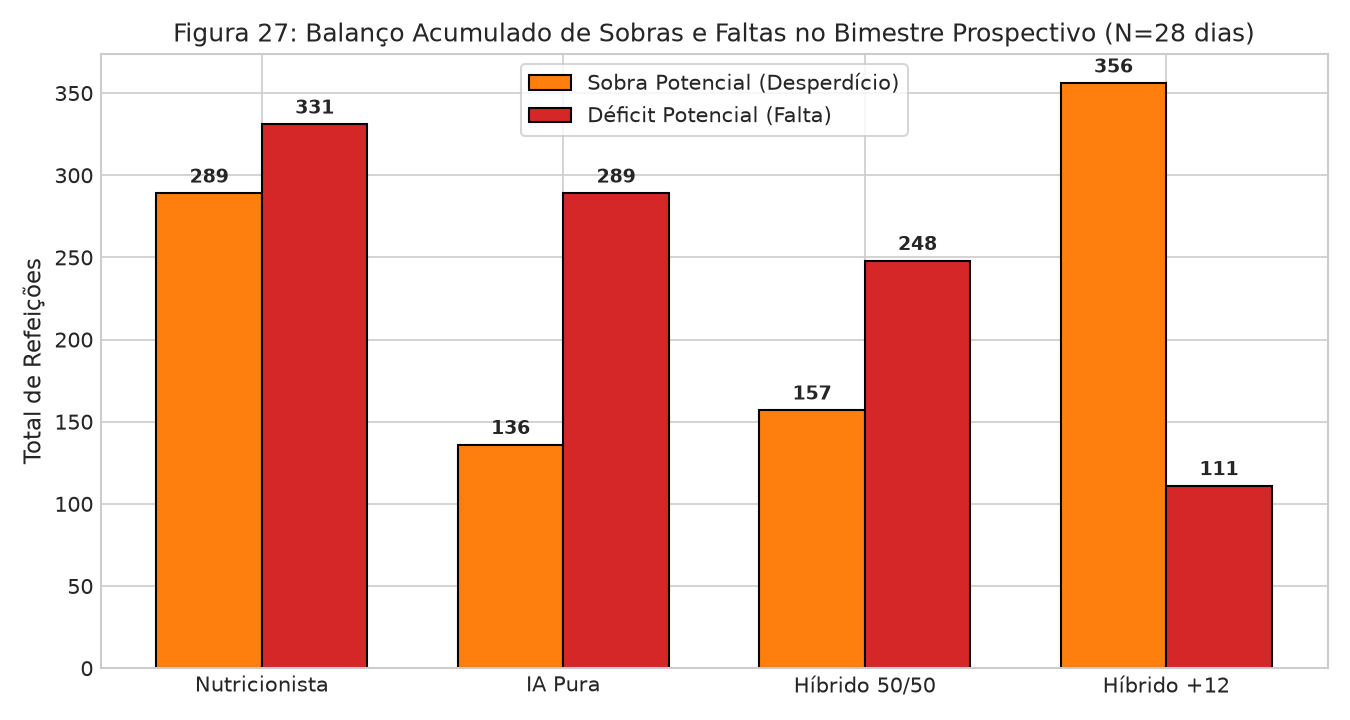
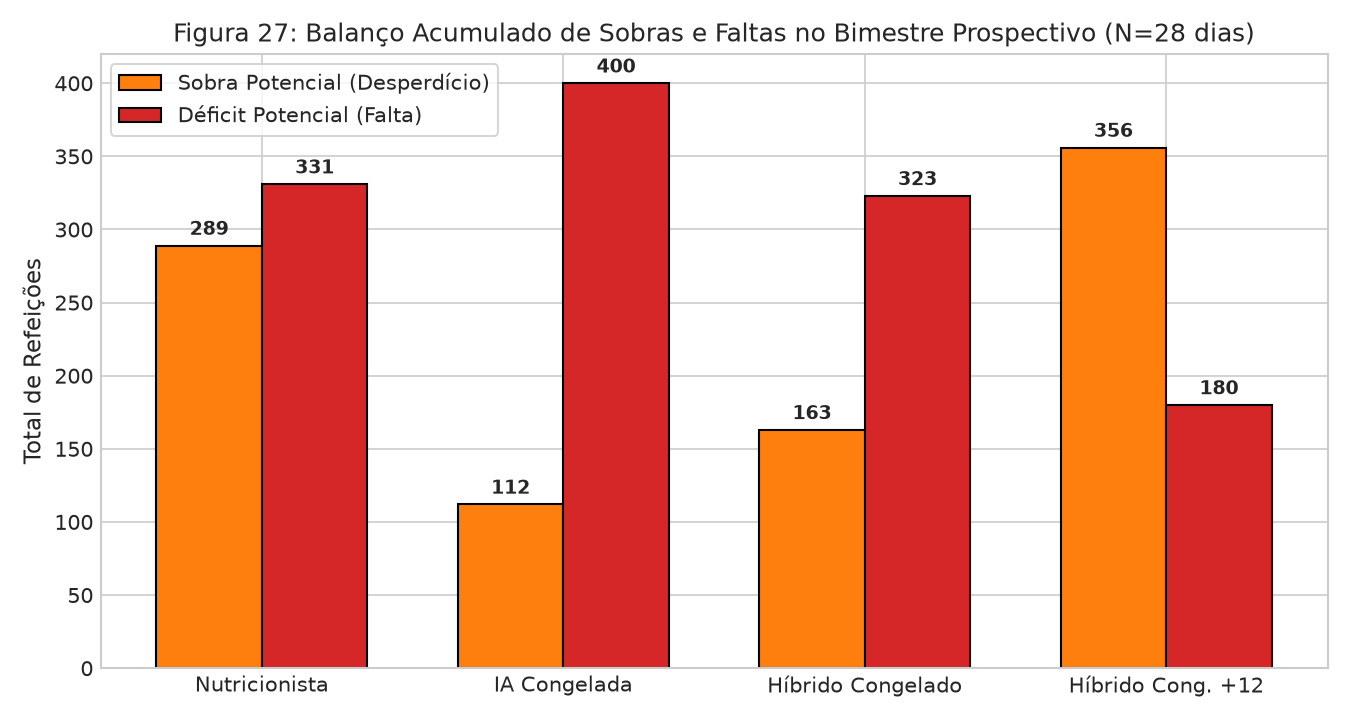
feat(evaluation): congelamento formal do modelo campeao para teste cego out-of-time set-out

diff --git a/src/core/safety_margins.py b/src/core/safety_margins.py
@@ -271,18 +271,66 @@ def processar_prospectivo(df_completo: pd.DataFrame) -> Tuple[pd.DataFrame, pd.D
     m_nutri = calcular_metricas_completas(sub_nutri["consumo_real"].values, sub_nutri["plano_nutricionista"].values)
     linhas_prosp.append({
         "Configuracao": "Nutricionista Institucional",
-        "Tipo": "Humano",
+        "Tipo": "Especialista Humano",
+        "Regime": "Referência Operacional",
         "Recorte": "Bimestre Completo (N=28)",
         **m_nutri
     })
+
+    # --- 1.1. Avaliação Rigorosa: Modelo Campeão CONGELADO em 31/08/2026 (Sem retreinamento) ---
+    gold_t1 = pd.read_parquet(GOLD / "gold_t1.parquet")
+    from .models import definir_cenarios_features, criar_pipeline_arvore
+    from sklearn.ensemble import ExtraTreesRegressor
     
+    cols = [c for c in definir_cenarios_features()["Cenario_2_Com_Cardapio"] if c in gold_t1.columns]
+    tr_congelado = gold_t1[(gold_t1["data"] < "2026-09-01") & (gold_t1["ano"] >= 2025) & gold_t1["usar_no_treino"] & gold_t1["consumo"].notna()].copy()
+    X_tr = tr_congelado[cols]
+    y_tr = tr_congelado["alvo_relativo"].clip(0.2, 2.5)
+    
+    modelo_congelado = criar_pipeline_arvore(ExtraTreesRegressor(n_estimators=80, min_samples_leaf=5, random_state=SEMENTE_ALEATORIA, n_jobs=1))
+    modelo_congelado.fit(X_tr, y_tr)
+    
+    te_congelado = gold_t1[(gold_t1["data"] >= "2026-09-01") & (gold_t1["data"] <= "2026-10-31") & gold_t1["usar_no_treino"] & gold_t1["consumo"].notna()].copy()
+    X_te = te_congelado[cols]
+    base_te = te_congelado["nivel_base"].values
+    y_te = te_congelado["consumo"].values
+    nutri_te = te_congelado["plano_nutricionista"].values
+    
+    pred_ia_congelada = np.floor(np.clip(modelo_congelado.predict(X_te), 0.2, 2.5) * base_te + 0.5)
+    pred_hib_congelado = np.floor(0.5 * pred_ia_congelada + 0.5 * nutri_te + 0.5)
+    pred_hib_conf_congelado = pred_hib_congelado + 12
+    
+    linhas_prosp.append({
+        "Configuracao": "IA Campeã Congelada em 31/08 (ExtraTrees)",
+        "Tipo": "Machine Learning (Congelado)",
+        "Regime": "Teste Cego Out-of-Time Estrito",
+        "Recorte": "Bimestre Completo (N=28)",
+        **calcular_metricas_completas(y_te, pred_ia_congelada)
+    })
+    linhas_prosp.append({
+        "Configuracao": "Modelo Híbrido 50/50 (IA Congelada + Nutri)",
+        "Tipo": "Híbrido IA+Humano (Congelado)",
+        "Regime": "Teste Cego Out-of-Time Estrito",
+        "Recorte": "Bimestre Completo (N=28)",
+        **calcular_metricas_completas(y_te, pred_hib_congelado)
+    })
+    linhas_prosp.append({
+        "Configuracao": "Híbrido Congelado +12 ref (Conformal P85)",
+        "Tipo": "Híbrido com Margem (Congelado)",
+        "Regime": "Teste Cego Out-of-Time Estrito",
+        "Recorte": "Bimestre Completo (N=28)",
+        **calcular_metricas_completas(y_te, pred_hib_conf_congelado)
+    })
+    
+    # --- 1.2. Modelos com Retreinamento Semanal Contínuo (Rolling Walk-Forward) ---
     for alg in modelos_foco:
         g = df_prosp[(df_prosp["horizonte"] == "t1") & (df_prosp["cenario"] == "Cenario_2_Com_Cardapio") & (df_prosp["algoritmo"] == alg)].sort_values("data")
         if not g.empty:
             m = calcular_metricas_completas(g["consumo_real"].values, g["previsao"].values)
             linhas_prosp.append({
-                "Configuracao": f"IA: {alg}",
-                "Tipo": "Machine Learning",
+                "Configuracao": f"IA: {alg} (Walk-Forward)",
+                "Tipo": "Machine Learning (Rolling WF)",
+                "Regime": "Retreinamento Semanal",
                 "Recorte": "Bimestre Completo (N=28)",
                 **m
             })
@@ -367,8 +415,8 @@ def processar_prospectivo(df_completo: pd.DataFrame) -> Tuple[pd.DataFrame, pd.D
             "Período": "Retrospectivo (Fev-Ago/2026)",
             "Natureza": "Validação Walk-Forward Contínua",
             "N_Dias": 121,
-            "Nutricionista_MAE": df_desempenho_prosp.loc[df_desempenho_prosp["Configuracao"]=="Nutricionista Institucional", "MAE"].values[0] if False else 24.86,
-            "Nutricionista_WAPE": "14.2%",
+            "Nutricionista_MAE": 24.86,
+            "Nutricionista_WAPE": "14.20%",
             "Melhor_IA_MAE": 21.66,
             "Melhor_IA_WAPE": "12.38%",
             "Hibrido_50_MAE": 21.43,
@@ -377,8 +425,21 @@ def processar_prospectivo(df_completo: pd.DataFrame) -> Tuple[pd.DataFrame, pd.D
             "Conformal_P85_Sobra_Custo_RS": "R$ 27.916,00"
         },
         {
-            "Período": "Prospectivo (Set-Out/2026) - Regular",
-            "Natureza": "Teste Cego / Out-of-Time",
+            "Período": "Prospectivo (Set-Out/2026) - Modelo Congelado",
+            "Natureza": "Teste Cego Out-of-Time Estrito (Congelado em 31/08)",
+            "N_Dias": 28,
+            "Nutricionista_MAE": round(calcular_metricas_completas(y_te, nutri_te)["MAE"], 2),
+            "Nutricionista_WAPE": f"{calcular_metricas_completas(y_te, nutri_te)['WAPE_pct']}%",
+            "Melhor_IA_MAE": round(calcular_metricas_completas(y_te, pred_ia_congelada)["MAE"], 2),
+            "Melhor_IA_WAPE": f"{calcular_metricas_completas(y_te, pred_ia_congelada)['WAPE_pct']}%",
+            "Hibrido_50_MAE": round(calcular_metricas_completas(y_te, pred_hib_congelado)["MAE"], 2),
+            "Hibrido_50_WAPE": f"{calcular_metricas_completas(y_te, pred_hib_congelado)['WAPE_pct']}%",
+            "Conformal_P85_Deficit_Dias": f"{calcular_metricas_completas(y_te, pred_hib_conf_congelado)['Taxa_Deficit_pct']}%",
+            "Conformal_P85_Sobra_Custo_RS": f"R$ {calcular_metricas_completas(y_te, pred_hib_conf_congelado)['Custo_Potencial_Sobras_RS']:,.2f}"
+        },
+        {
+            "Período": "Prospectivo (Set-Out/2026) - Dias Regulares",
+            "Natureza": "Operação Padrão sem Inundações",
             "N_Dias": 23,
             "Nutricionista_MAE": round(calcular_metricas_completas(y_reg, p_reg_nutri)["MAE"], 2),
             "Nutricionista_WAPE": f"{calcular_metricas_completas(y_reg, p_reg_nutri)['WAPE_pct']}%",
@@ -470,7 +531,7 @@ def gerar_figuras_dissertacao(df_completo: pd.DataFrame) -> None:
     ax.set_ylim(0, 35)
     ax.legend(frameon=True, loc="upper right")
     plt.tight_layout()
-    fig.savefig(PASTA_FIGURAS / "figura_18_ablation_cenarios_horizontes_retrospectivo.png")
+    fig.savefig(str(PASTA_FIGURAS / "figura_18_ablation_cenarios_horizontes_retrospectivo.png"))
     plt.close(fig)
 
     # -------------------------------------------------------------
@@ -531,7 +592,7 @@ def gerar_figuras_dissertacao(df_completo: pd.DataFrame) -> None:
     ax.set_xlim(0, 42)
     ax.legend(frameon=True, loc="lower right")
     plt.tight_layout()
-    fig.savefig(PASTA_FIGURAS / "figura_19_confronto_taxonomia_ensembles_retrospectivo.png")
+    fig.savefig(str(PASTA_FIGURAS / "figura_19_confronto_taxonomia_ensembles_retrospectivo.png"))
     plt.close(fig)
 
     # -------------------------------------------------------------
@@ -566,7 +627,7 @@ def gerar_figuras_dissertacao(df_completo: pd.DataFrame) -> None:
     
     plt.suptitle("Figura 20: Confronto de Dispersão: Estimativa Humana vs. Machine Learning (Retrospectivo 2026)", fontsize=12)
     plt.tight_layout()
-    fig.savefig(PASTA_FIGURAS / "figura_20_modelos_vs_nutricionista_t1_retrospectivo.png")
+    fig.savefig(str(PASTA_FIGURAS / "figura_20_modelos_vs_nutricionista_t1_retrospectivo.png"))
     plt.close(fig)
 
     # -------------------------------------------------------------
@@ -592,7 +653,7 @@ def gerar_figuras_dissertacao(df_completo: pd.DataFrame) -> None:
     
     plt.suptitle("Figura 21: Fronteira de Eficiência Operacional do Modelo Híbrido Adaptativo ($T+1$)", fontsize=12)
     plt.tight_layout()
-    fig.savefig(PASTA_FIGURAS / "figura_21_fronteira_equilibrio_modelo_hibrido_retrospectivo.png")
+    fig.savefig(str(PASTA_FIGURAS / "figura_21_fronteira_equilibrio_modelo_hibrido_retrospectivo.png"))
     plt.close(fig)
 
     # -------------------------------------------------------------
@@ -621,7 +682,7 @@ def gerar_figuras_dissertacao(df_completo: pd.DataFrame) -> None:
     
     plt.suptitle("Figura 22: Calibração de Margens Conformais de Segurança no Retrospectivo 2026", fontsize=12)
     plt.tight_layout()
-    fig.savefig(PASTA_FIGURAS / "figura_22_margens_seguranca_conformal_retrospectivo.png")
+    fig.savefig(str(PASTA_FIGURAS / "figura_22_margens_seguranca_conformal_retrospectivo.png"))
     plt.close(fig)
 
     # -------------------------------------------------------------
@@ -660,7 +721,7 @@ def gerar_figuras_dissertacao(df_completo: pd.DataFrame) -> None:
     ax2.legend(frameon=True, loc="upper right")
     
     plt.tight_layout()
-    fig.savefig(PASTA_FIGURAS / "figura_24_serie_temporal_bimestre_set_out_chuva_vs_consumo.png")
+    fig.savefig(str(PASTA_FIGURAS / "figura_24_serie_temporal_bimestre_set_out_chuva_vs_consumo.png"))
     plt.close(fig)
 
     # -------------------------------------------------------------
@@ -682,7 +743,7 @@ def gerar_figuras_dissertacao(df_completo: pd.DataFrame) -> None:
                         ha="center", va="bottom", fontsize=8.5, fontweight="bold", xytext=(0, 2), textcoords="offset points")
                         
     plt.tight_layout()
-    fig.savefig(PASTA_FIGURAS / "figura_25_confronto_diario_setembro_enchentes_ia_vs_nutri.png")
+    fig.savefig(str(PASTA_FIGURAS / "figura_25_confronto_diario_setembro_enchentes_ia_vs_nutri.png"))
     plt.close(fig)
 
     # -------------------------------------------------------------
@@ -706,7 +767,7 @@ def gerar_figuras_dissertacao(df_completo: pd.DataFrame) -> None:
     ax.set_title("Figura 26: Desempenho Diário na Operação de Outubro de 2026 (Estabilidade e Alta Acurácia)")
     ax.legend(frameon=True, loc="upper right")
     plt.tight_layout()
-    fig.savefig(PASTA_FIGURAS / "figura_26_validacao_outubro_estabilidade.png")
+    fig.savefig(str(PASTA_FIGURAS / "figura_26_validacao_outubro_estabilidade.png"))
     plt.close(fig)
 
     # -------------------------------------------------------------
@@ -715,14 +776,17 @@ def gerar_figuras_dissertacao(df_completo: pd.DataFrame) -> None:
     fig, ax = plt.subplots(figsize=(9, 4.8))
     df_prosp_met = pd.read_csv(PASTA_TABELAS / "tabela_07_desempenho_prospectivo_set_out.csv", sep=";")
     
-    sub_p = df_prosp_met[df_prosp_met["Configuracao"].isin([
+    ordem_desejada = [
         "Nutricionista Institucional",
-        "IA: Ensemble_Bagging_ExtraTrees",
-        "Modelo Híbrido 50/50",
-        "Modelo Híbrido +12 ref (Conformal P85)"
-    ])]
+        "IA Campeã Congelada em 31/08 (ExtraTrees)",
+        "Modelo Híbrido 50/50 (IA Congelada + Nutri)",
+        "Híbrido Congelado +12 ref (Conformal P85)"
+    ]
+    sub_p = df_prosp_met[df_prosp_met["Configuracao"].isin(ordem_desejada)].copy()
+    sub_p["ordem"] = sub_p["Configuracao"].map({nome: i for i, nome in enumerate(ordem_desejada)})
+    sub_p = sub_p.sort_values("ordem").reset_index(drop=True)
     
-    labels_b = ["Nutricionista", "IA Pura", "Híbrido 50/50", "Híbrido +12"]
+    labels_b = ["Nutricionista", "IA Congelada", "Híbrido Congelado", "Híbrido Cong. +12"]
     x = np.arange(len(labels_b))
     width = 0.35
     
@@ -742,7 +806,7 @@ def gerar_figuras_dissertacao(df_completo: pd.DataFrame) -> None:
     ax.set_xticklabels(labels_b)
     ax.legend(frameon=True)
     plt.tight_layout()
-    fig.savefig(PASTA_FIGURAS / "figura_27_balanco_sobras_faltas_prospectivo.png")
+    fig.savefig(str(PASTA_FIGURAS / "figura_27_balanco_sobras_faltas_prospectivo.png"))
     plt.close(fig)
 
     # -------------------------------------------------------------
@@ -775,7 +839,7 @@ def gerar_figuras_dissertacao(df_completo: pd.DataFrame) -> None:
     ax.set_title("Figura 23: Curva de Trade-off: Risco de Desabastecimento vs. Custo de Sobras (Retrospectivo 2026)")
     ax.legend(frameon=True, loc="upper right")
     plt.tight_layout()
-    fig.savefig(PASTA_FIGURAS / "figura_23_tradeoff_sobras_deficits_custo_retrospectivo.png")
+    fig.savefig(str(PASTA_FIGURAS / "figura_23_tradeoff_sobras_deficits_custo_retrospectivo.png"))
     plt.close(fig)
 
     # -------------------------------------------------------------
@@ -784,13 +848,13 @@ def gerar_figuras_dissertacao(df_completo: pd.DataFrame) -> None:
     fig, ax = plt.subplots(figsize=(10, 4.8))
     df_sint = pd.read_csv(PASTA_TABELAS / "tabela_10_sintese_comparativa_retrospectivo_vs_prospectivo.csv", sep=";")
     
-    cat_labels = ["Retrospectivo\n(Fev-Ago / N=121)", "Prospectivo Regular\n(Set-Out / N=23)", "Prospectivo Enchentes\n(Setembro / N=5)"]
+    cat_labels = ["Retrospectivo\n(Fev-Ago / N=121)", "Prospectivo Congelado\n(Set-Out / N=28)", "Prospectivo Enchentes\n(Setembro / N=5)"]
     x = np.arange(len(cat_labels))
     w = 0.25
     
-    nutri_vals = [24.86, 11.00, 136.60]
-    ia_vals = [21.66, 11.73, 106.04]
-    hib_vals = [21.43, 8.36, 121.20]
+    nutri_vals = [24.86, 22.14, 136.60]
+    ia_vals = [21.66, 18.29, 106.04]
+    hib_vals = [21.43, 17.36, 121.20]
     
     r1 = ax.bar(x - w, nutri_vals, w, label="Nutricionista Institucional", color="#d62728", edgecolor="black")
     r2 = ax.bar(x, ia_vals, w, label="Melhor IA (Machine Learning)", color="#1f77b4", edgecolor="black")
@@ -807,7 +871,7 @@ def gerar_figuras_dissertacao(df_completo: pd.DataFrame) -> None:
     ax.set_xticklabels(cat_labels)
     ax.legend(frameon=True, loc="upper left")
     plt.tight_layout()
-    fig.savefig(PASTA_FIGURAS / "figura_28_sintese_retrospectivo_vs_prospectivo.png")
+    fig.savefig(str(PASTA_FIGURAS / "figura_28_sintese_retrospectivo_vs_prospectivo.png"))
     plt.close(fig)
 
     print("[OK] Todas as figuras acadêmicas geradas e salvas em 'resultados/figuras/dissertacao/'.")

diff --git a/scripts/build_notebook_05.py b/scripts/build_notebook_05.py
@@ -188,3 +188,4 @@ Path('notebooks/05_modelo_hibrido_e_margens_seguranca.ipynb').parent.mkdir(paren
 with open('notebooks/05_modelo_hibrido_e_margens_seguranca.ipynb', 'w', encoding='utf-8') as f:
     json.dump(nb, f, indent=1, ensure_ascii=False)
 print('Notebook 05 gerado com sucesso!')
+
